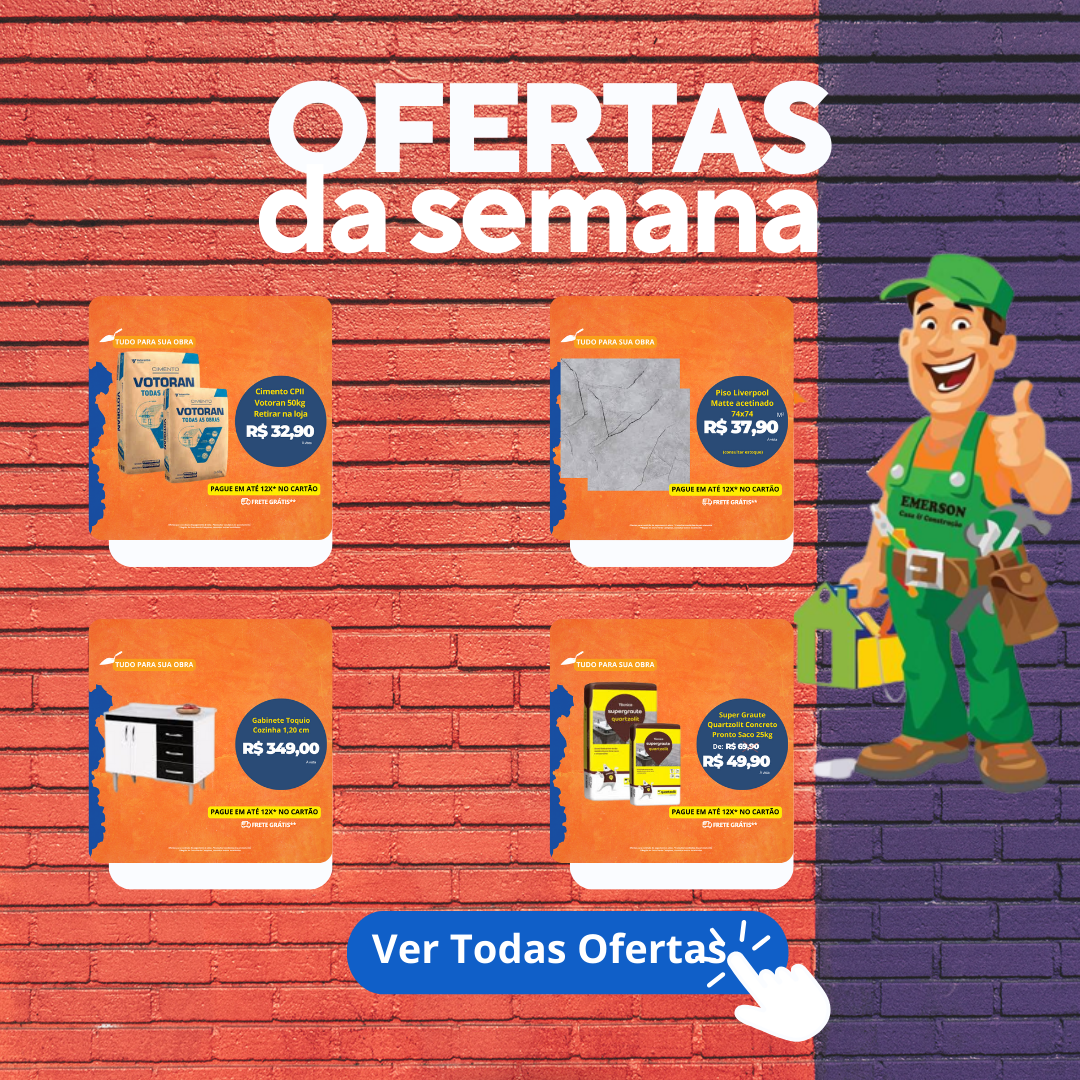
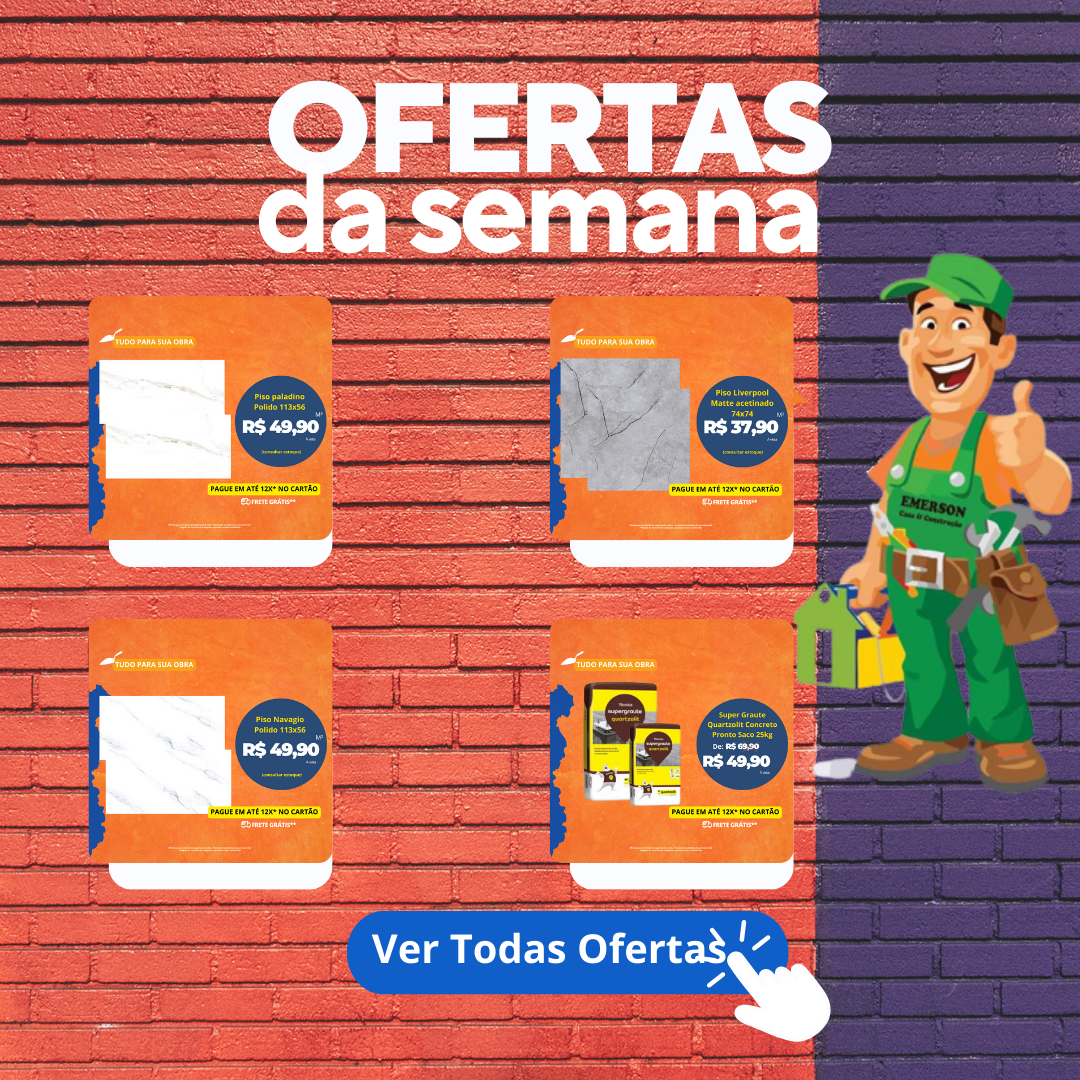
pagina de ofertas e imagens atualizadas

Changed region(s): [[0.0917, 0.3056, 0.3056, 0.4583], [0.0917, 0.6417, 0.3056, 0.7639]]

diff --git a/ofertas.html b/ofertas.html
@@ -233,7 +233,7 @@
           <div class="card mt-5">
             <a
               href="https://wa.me/5519974106370?text=Ol%C3%A1%20tudo%20bem?%20Vim%20pelo%20site%20e%20gostaria%20de%20saber%20mais%20sobre%20as%20ofertas%20disponíveis!">
-              <img src="img/ofertas/14.png" class="card-img-top ratio " alt="Oferta 1"></a>
+              <img src="img/ofertas/1.png" class="card-img-top ratio " alt="Oferta 1"></a>
 
             <div class="card-footer text-center">
               <a type="button" class="btn btn-lg btn-block mt-2" style="background-color: #13AC2D; color: white;"
@@ -338,12 +338,12 @@
 
           </div>
         </div>
-        <!-- Exemplo de Card 8 -->
+        <!-- Exemplo de Card 9 -->
         <div class="col-md-3 col-sm-6">
           <div class="card mt-5">
             <a
               href="https://wa.me/5519974106370?text=Ol%C3%A1%20tudo%20bem?%20Vim%20pelo%20site%20e%20gostaria%20de%20saber%20mais%20sobre%20as%20ofertas%20disponíveis!">
-              <img src="img/ofertas/8.png" class="card-img-top ratio " alt="Oferta 1"></a>
+              <img src="img/ofertas/9.png" class="card-img-top ratio " alt="Oferta 1"></a>
 
             <div class="card-footer text-center">
               <a type="button" class="btn btn-lg btn-block mt-2" style="background-color: #13AC2D; color: white;"
